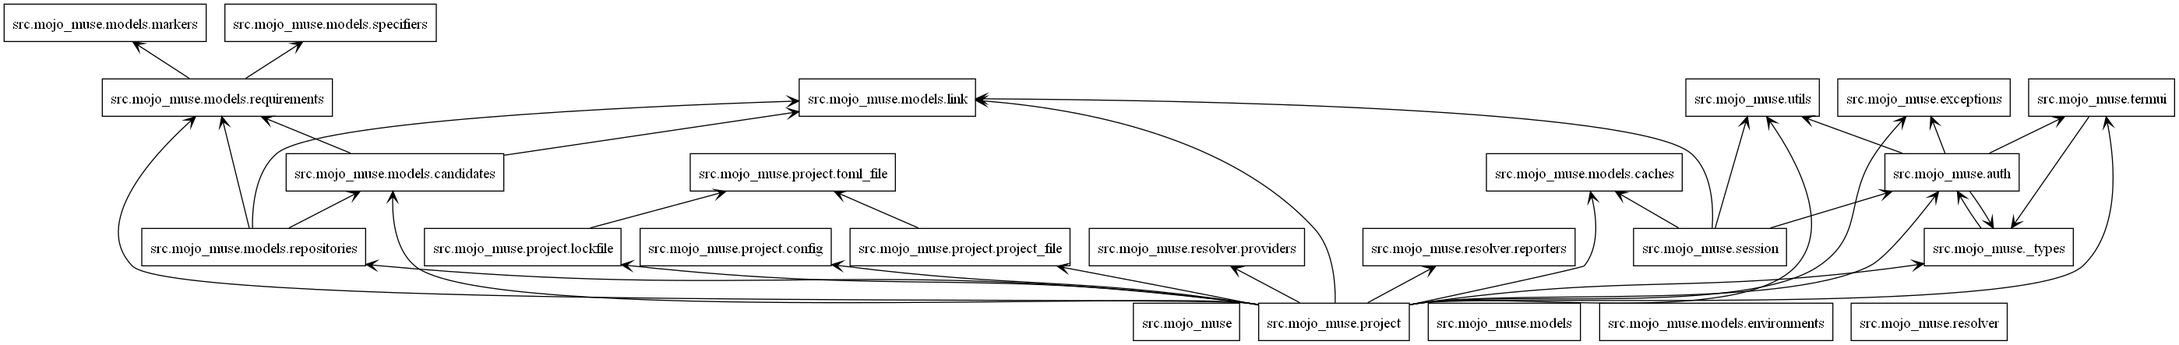
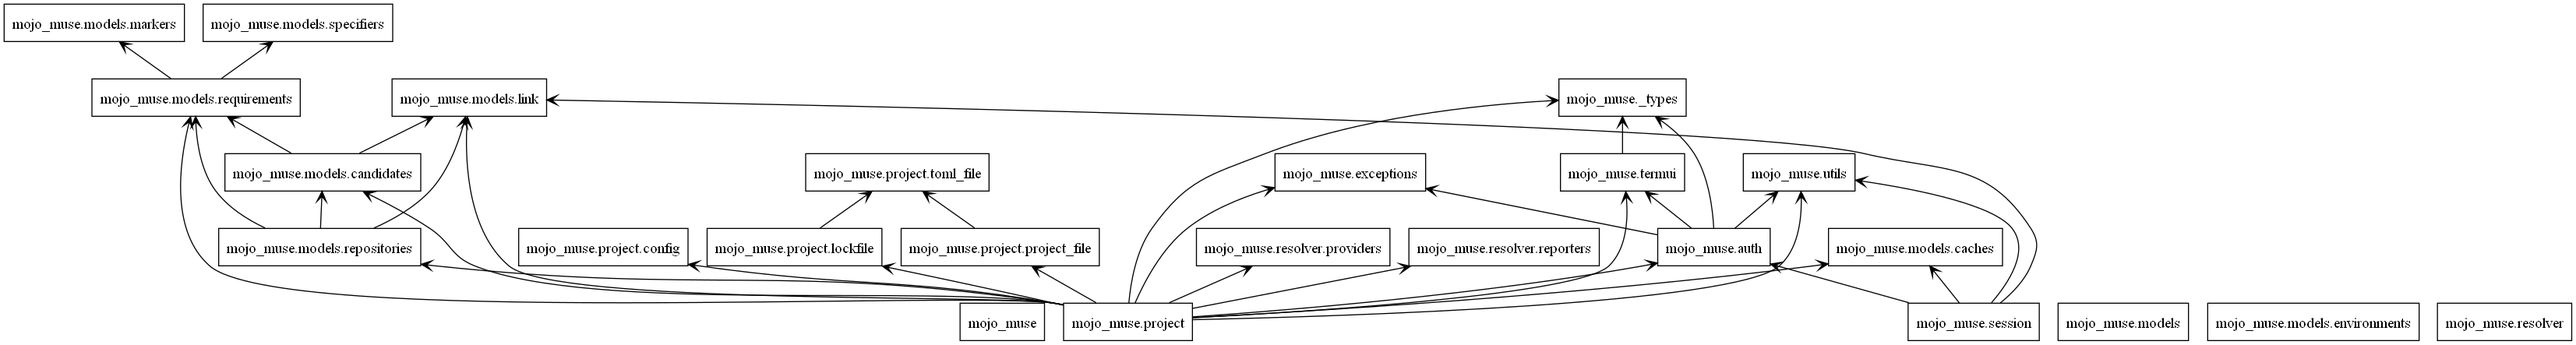
Fix _types.py circular imports

diff --git a/src/mojo_muse/_types.py b/src/mojo_muse/_types.py
@@ -35,20 +35,20 @@ class RepositoryConfig(_RepositoryConfig):
         kwargs["_password"] = password
         super().__init__(*args, **kwargs)
 
-    @property
-    def password(self) -> str | None:
-        if self._password is None:
-            from .auth import keyring
+    # @property
+    # def password(self) -> str | None:
+    #     if self._password is None:
+    #         from .auth import keyring
 
-            service = f"muse-{self.config_prefix}-{self.name}"
-            result = keyring.get_auth_info(service, self.username)
-            if result is not None:
-                self._password = result[1]
-        return self._password
+    #         service = f"muse-{self.config_prefix}-{self.name}"
+    #         result = keyring.get_auth_info(service, self.username)
+    #         if result is not None:
+    #             self._password = result[1]
+    #     return self._password
 
-    @password.setter
-    def password(self, value: str) -> None:
-        self._password = value
+    # @password.setter
+    # def password(self, value: str) -> None:
+    #     self._password = value
 
     def passive_update(
         self, other: RepositoryConfig | None = None, **kwargs: Any
